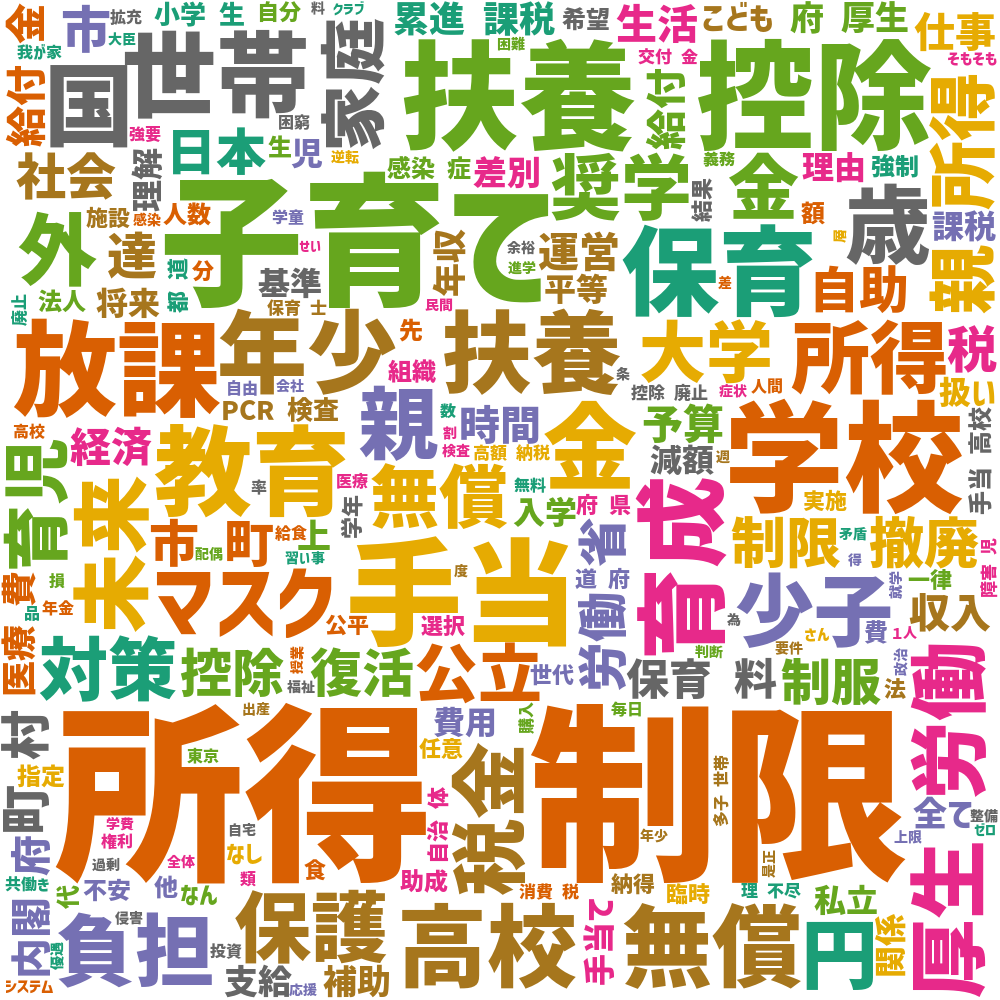
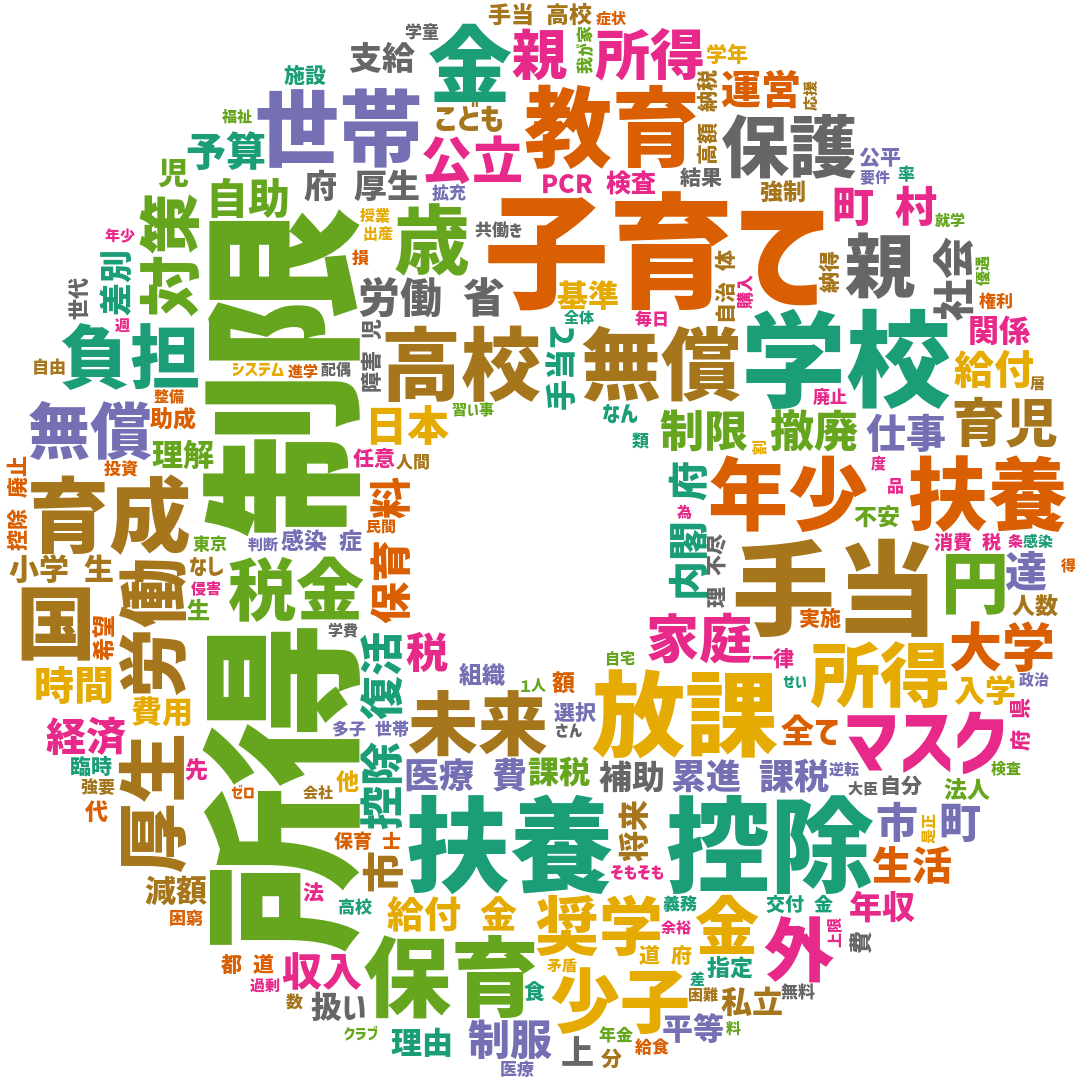
ver.1.5

diff --git a/komarigoto.py b/komarigoto.py
@@ -1,7 +1,9 @@
 from st_aggrid import AgGrid
 import pandas as pd
 import streamlit as st
+import numpy as np
 
+from PIL import Image
 
 import MeCab
 mecab = MeCab.Tagger()
@@ -124,12 +126,15 @@ dt_now = datetime.now(JST)
 #stpwds = ["様","辺","なし","分","款","皆","さん","議会","文","場所","現在","ら","方々","こちら","性","化","場合","対象","一方","皆様","考え","それぞれ","意味","とも","内容","とおり","目","事業","つ","見解","検討","本当","議論","民","地域","万","確認","実際","先ほど","前","後","利用","説明","次","あたり","部分","状況","わけ","話","答弁","資料","半ば","とき","支援","形","今回","中","対応","必要","今後","質問","取り組み","終了","暫時","午前","たち","九十","八十","七十","六十","五十","四十","三十","問題","提出","進行","付託","議案","動議","以上","程度","異議","開会","午後","者","賛成","投票","再開","休憩","質疑","ただいま","議事","号","二十","平成","等","会","日","月","年","年度","委員","中央","点","区","委員会","賛成者","今","中央区","もの","こと","ふう","ところ","ほう","これ","私","わたし","僕","あなた","みんな","ただ","ほか","それ", "もの", "これ", "ところ","ため","うち","ここ","そう","どこ", "つもり", "いつ","あと","もん","はず","こと","そこ","あれ","なに","傍点","まま","事","人","方","何","時","一","二","三","四","五","六","七","八","九","十"]
 stpwds = ["子ども","子供","児童","園","子","皆","制度","文","場所","現在","ら","方々","こちら","性","化","場合","対象","一方","皆様","考え","それぞれ","意味","とも","内容","とおり","目","事業","つ","見解","検討","本当","議論","民","地域","万","確認","実際","先ほど","前","後","利用","説明","次","あたり","部分","状況","わけ","話","答弁","資料","半ば","とき","支援","形","今回","中","対応","必要","今後","質問","取り組み","終了","暫時","午前","たち","九十","八十","七十","六十","五十","四十","三十","問題","提出","進行","付託","議案","動議","以上","程度","異議","開会","午後","者","賛成","投票","再開","休憩","質疑","ただいま","議事","号","二十","平成","等","会","日","月","年","年度","委員","中央","点","区","委員会","賛成者","今","中央区","もの","こと","ふう","ところ","ほう","これ","私","わたし","僕","あなた","みんな","ただ","ほか","それ", "もの", "これ", "ところ","ため","うち","ここ","そう","どこ", "つもり", "いつ","あと","もん","はず","こと","そこ","あれ","なに","傍点","まま","事","人","方","何","時","一","二","三","四","五","六","七","八","九","十"]
 
+mask = np.array(Image.open('mask.png'))
+
 
 wc = WordCloud(stopwords=stpwds, 
     width=1000, 
     height=1000, 
     background_color='white',
-    colormap='Dark2', 
+    colormap='Dark2',
+    mask=mask,
     #colormap='coolwarm', 
     font_path = font_path
 )
